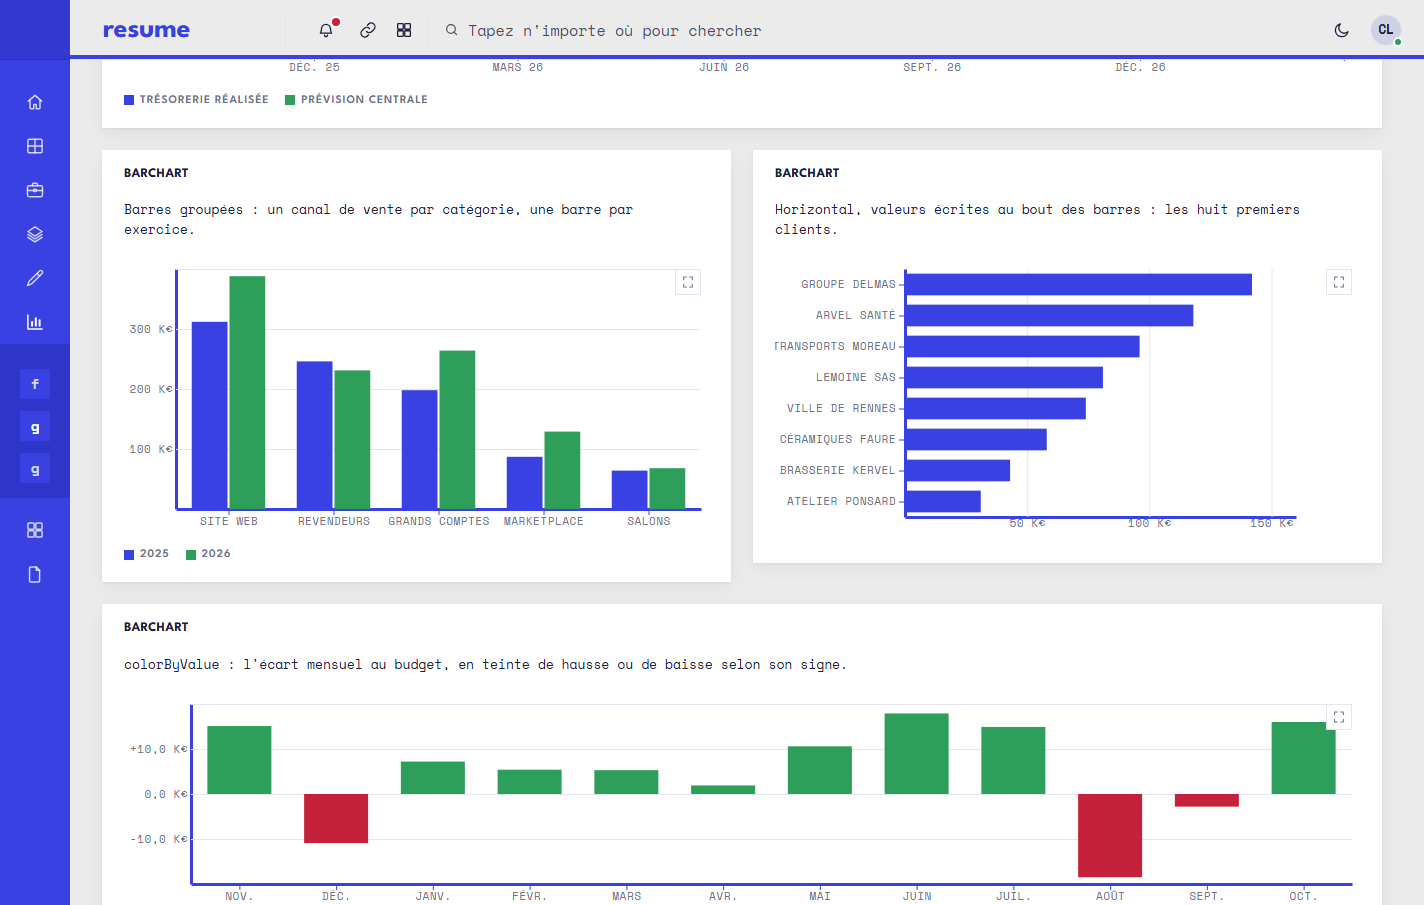
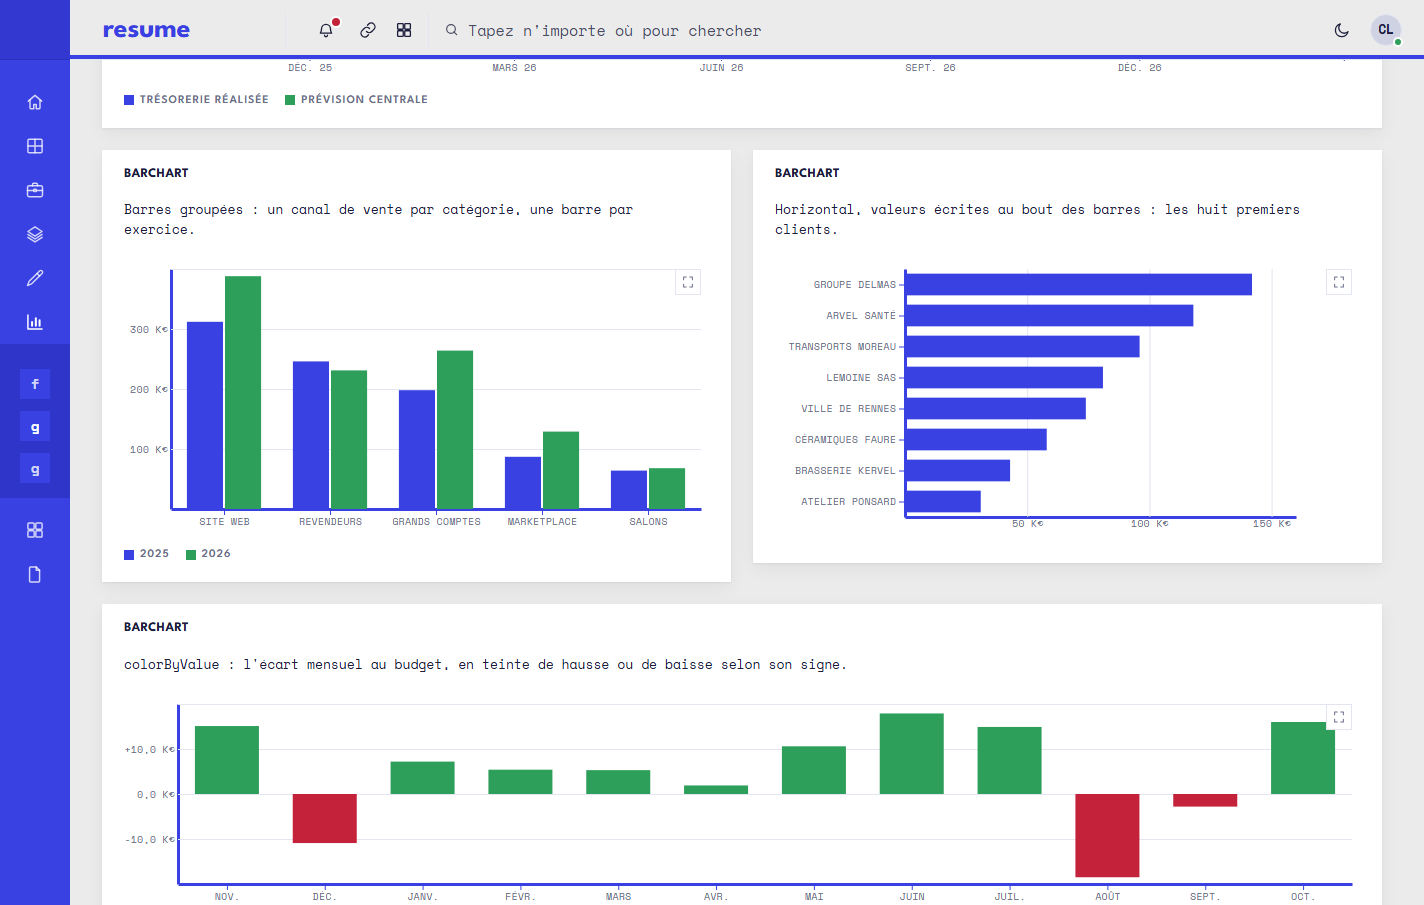
feat(thème): graphique boursier dans le style du CV
Avec le kit 0.190, le canvas de CandlestickChart lit ses variables : bougies de hausse dans le
bleu de l'accent et de baisse dans le rouge du CV, mèches de 1,5 px, volumes à 30 %, quadrillage
plein comme les autres graphiques, titre (symbole · type) en League Spartan capitale. Les
graduations passent à 10 px et 0,02 em : en capitales plus espacées, les dates se chevauchaient
sur les graphiques étroits (espace de travail à deux volets). README : paragraphe et capture du
graphique boursier, capture des graphiques refaite.

diff --git a/src/theme/resume.css b/src/theme/resume.css
@@ -210,9 +210,9 @@
   --lq-chart-grid-width: 1px;
   --lq-chart-grid-dash: none;
   --lq-chart-axis-color: var(--lq-color-text-muted);
-  --lq-chart-axis-size: 10.5px;
+  --lq-chart-axis-size: 10px;
   --lq-chart-axis-weight: 400;
-  --lq-chart-axis-tracking: 0.08em;
+  --lq-chart-axis-tracking: 0.02em;
   --lq-chart-axis-transform: uppercase;
   --lq-chart-domain-color: var(--lq-color-accent);
   --lq-chart-domain-width: 3px;
@@ -231,6 +231,17 @@
   --lq-chart-node-radius: 0;
   --lq-chart-tile-gap-color: var(--lq-color-panel);
   --lq-chart-tile-gap-width: 2;
+  /* Le graphique boursier (canvas, kit ≥ 0.190) : les bougies de hausse dans le bleu du CV, celles
+     de baisse dans son rouge, des mèches de 1,5 px, des volumes en aplat léger ; le titre
+     (symbole · type) en League Spartan capitale, comme les intitulés du CV. */
+  --lq-chart-candle-up: var(--lq-color-accent);
+  --lq-chart-candle-down: var(--lq-color-danger);
+  --lq-chart-candle-wick-width: 1.5;
+  --lq-chart-volume-opacity: 0.3;
+  --lq-chart-title-font: var(--rdk-font-title);
+  --lq-chart-title-size: 13px;
+  --lq-chart-title-tracking: 0.06em;
+  --lq-chart-title-transform: uppercase;
 }
 
 /* ---- surface claire : le CV ---- */

diff --git a/README.md b/README.md
@@ -29,6 +29,8 @@ démonstration. Aucun composant n'est réécrit ici tant qu'une variable suffit 
 
 ![Graphiques : barres groupées, horizontales et signées, dessinées dans le style du CV](docs/images/graphiques.png)
 
+![Graphique boursier : bougies bleu et rouge du CV, volumes en aplat léger, quadrillage plein](docs/images/graphique-boursier.png)
+
 Les illustrations des écrans sont générées en code (SVG), aux couleurs du thème.
 
 ## Le style du CV
@@ -67,6 +69,10 @@ filet du CV, les graduations et les légendes en capitales espacées (League Spa
 légendes), des barres et des pastilles sans arrondi, des séparateurs nets entre les parts d'un
 anneau et les tuiles d'une carte de chaleur. Les six couleurs de séries restent distinctes : bleu,
 vert, ambre, puis le sarcelle `#0e7c86`, le rouge et le marine `#17324d` du CV.
+
+Le **graphique boursier** (kit ≥ 0.190), peint sur un canvas, suit le même thème : bougies de
+hausse dans le bleu du CV et de baisse dans son rouge, mèches de 1,5 px, volumes en aplat léger,
+quadrillage plein, et le titre (symbole · type) en League Spartan capitale.
 
 ## Utiliser le paquet
 
